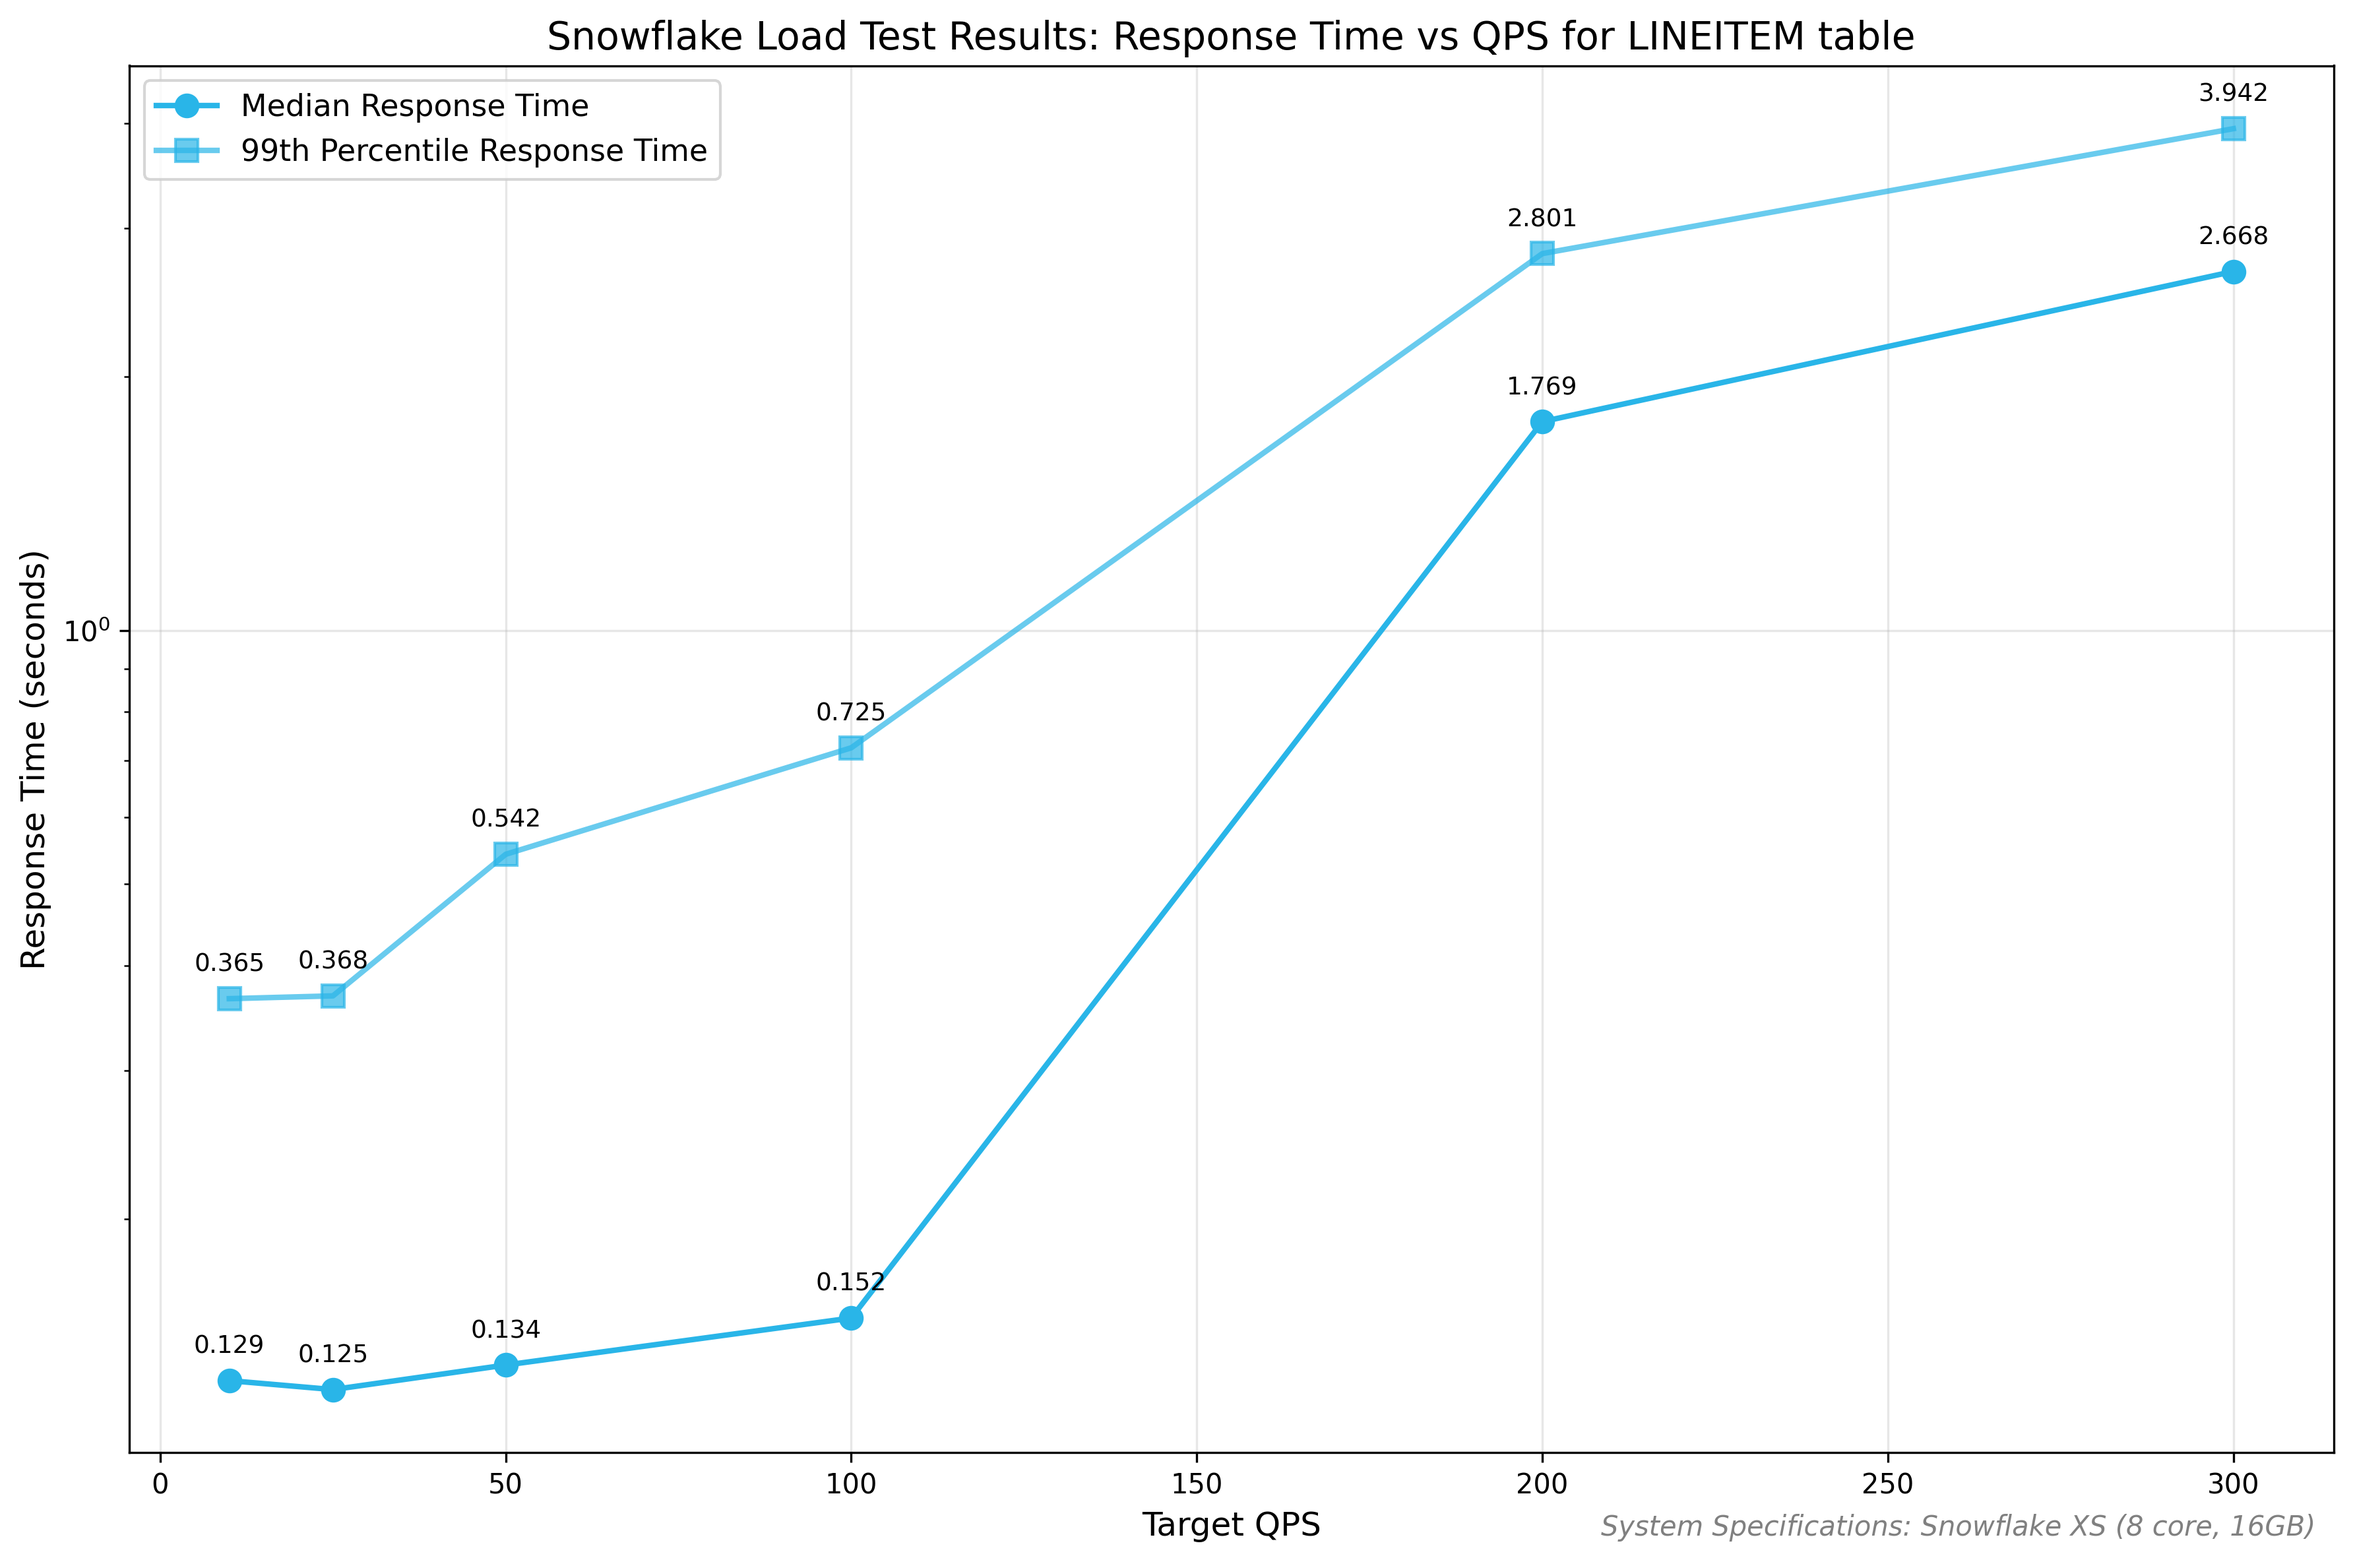
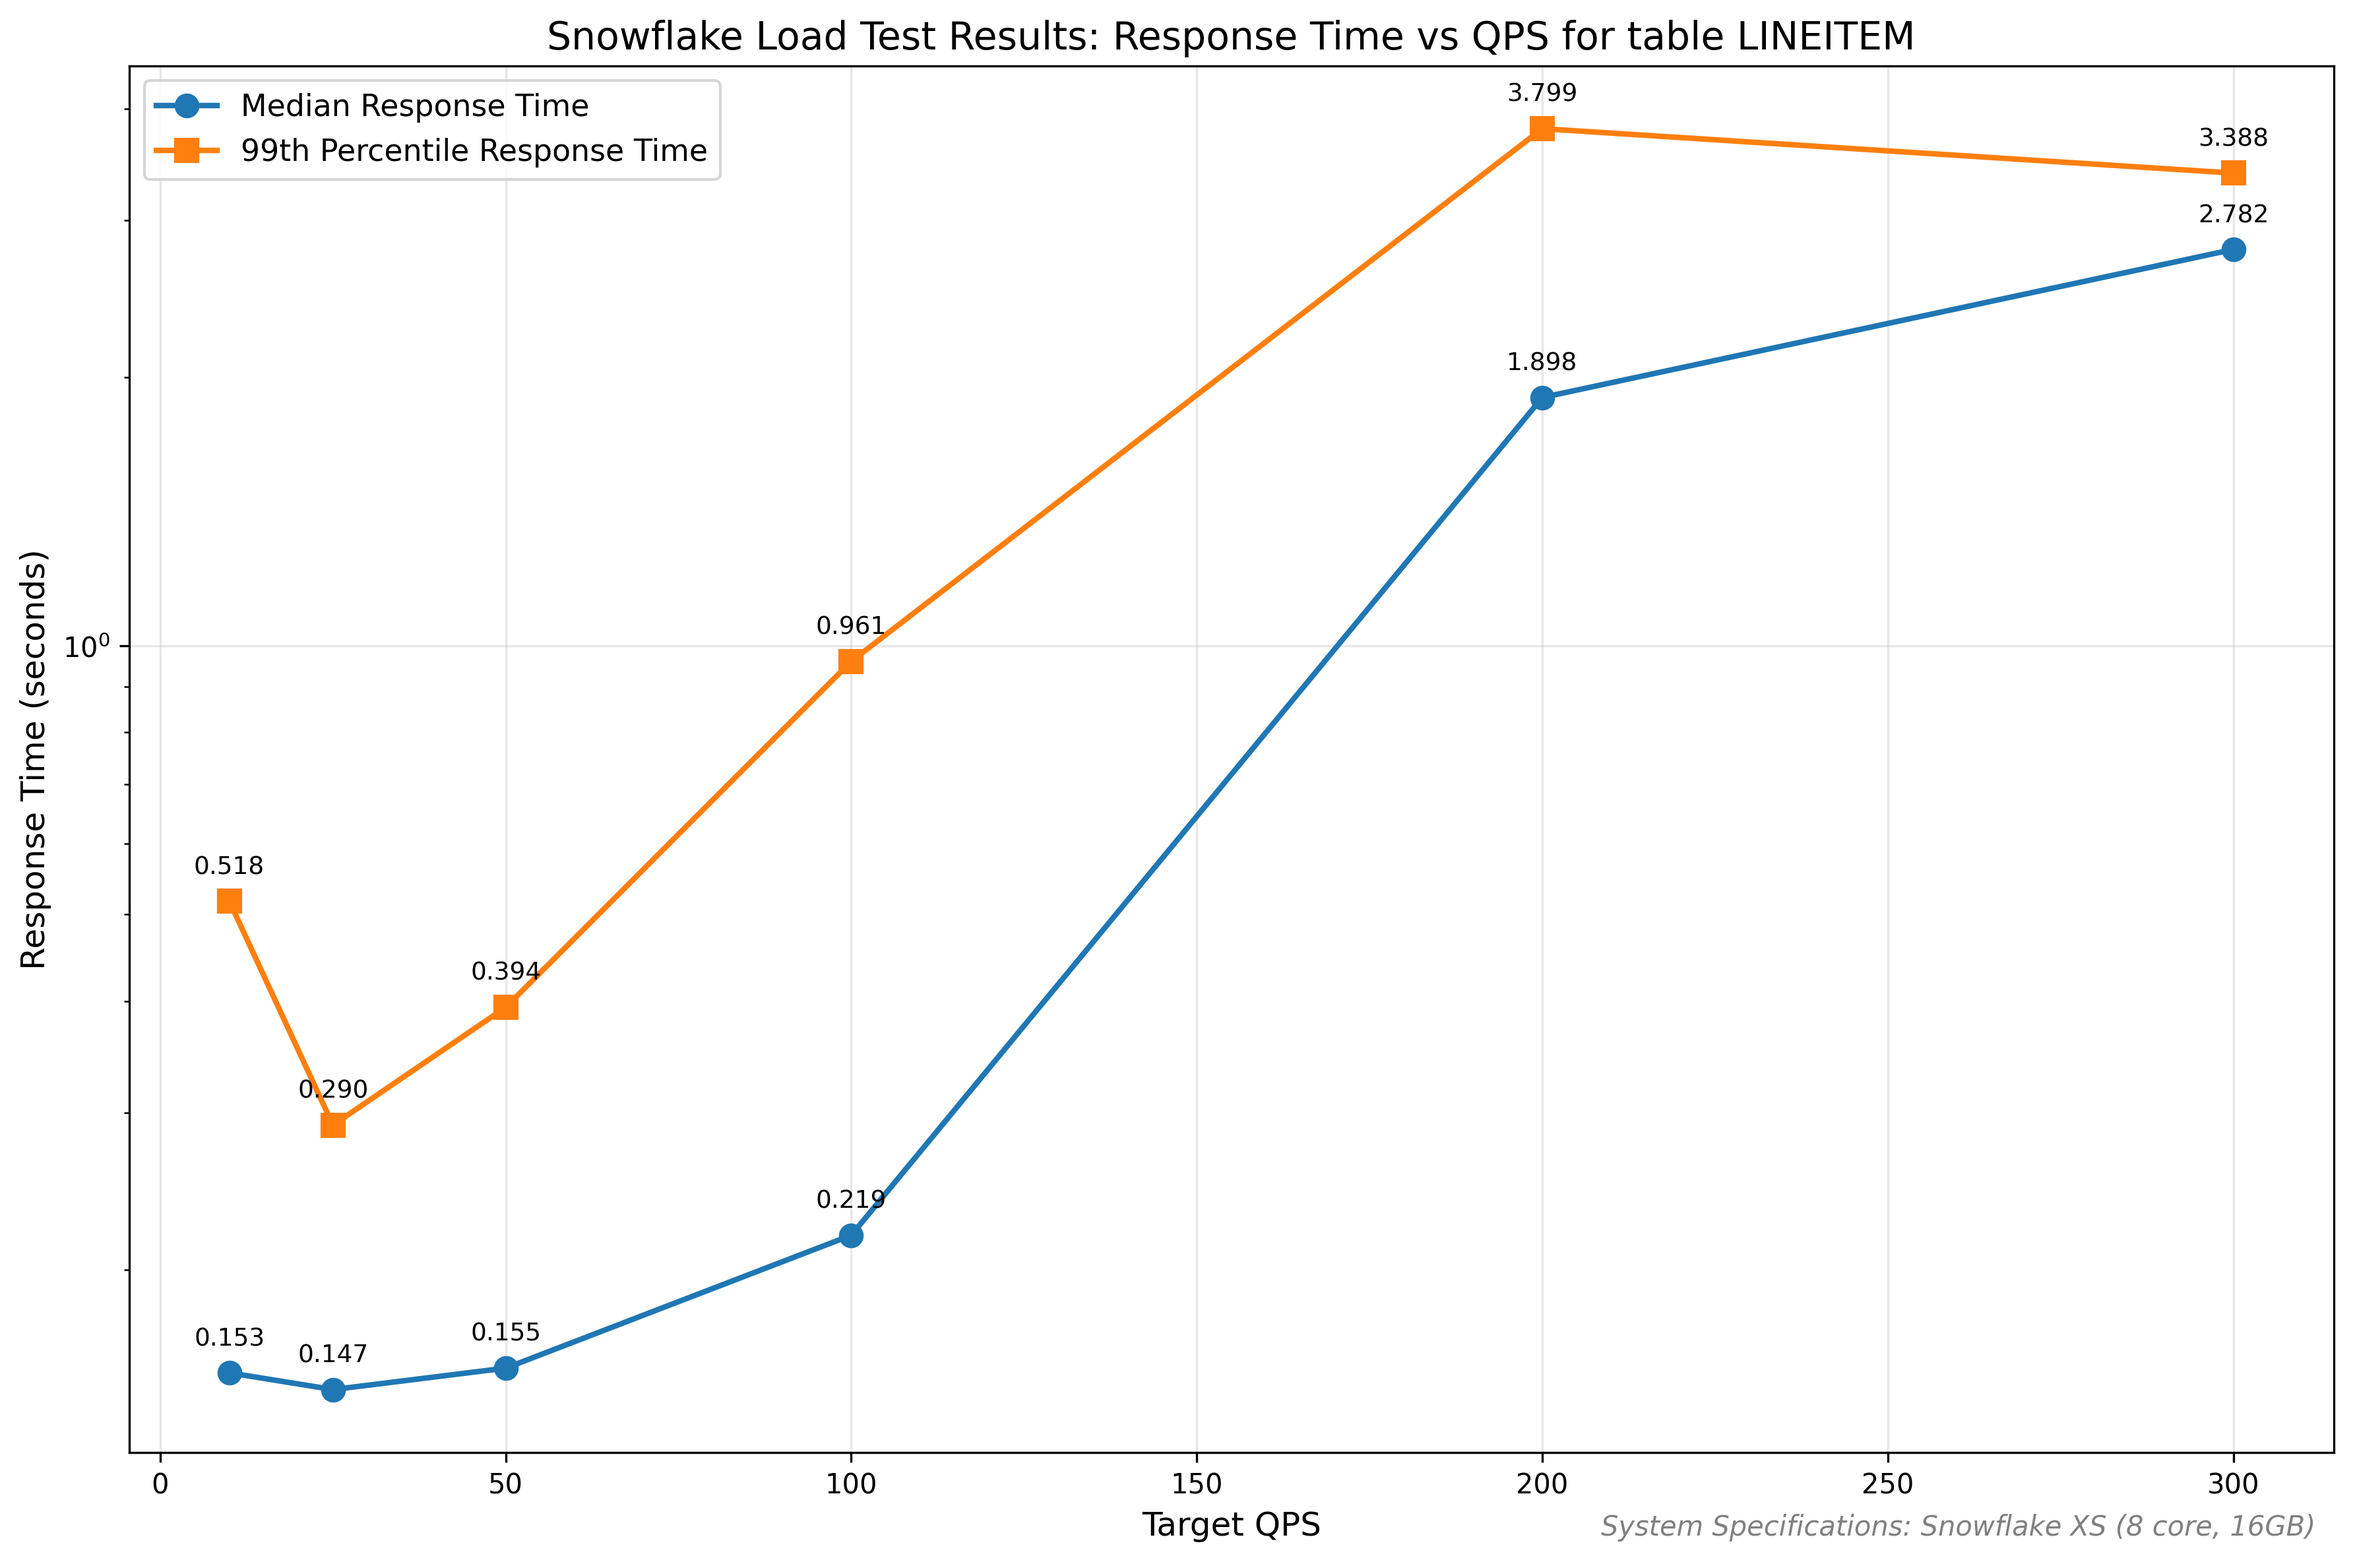
Add Streamlit database explorer app with Snowflake integration
🚀 New Streamlit Application:
- Created streamlit_app.py - A 'Hello World' Streamlit app that connects to Snowflake
- Lists all available databases with interactive UI and metrics
- Supports both local development and Snowflake deployment

✨ Key Features:
- 🔗 Automatic connection handling (local vs Snowflake environment)
- 📊 Interactive database listing with search and statistics
- 🎨 Clean, modern UI with metrics and expandable sections
- 🌐 Dual-mode support: local development + Snowflake deployment

📦 Configuration Files:
- .streamlit/config.toml - Streamlit app configuration
- environment.yml - Snowflake environment dependencies
- Updated requirements.txt with streamlit>=1.28.0

🔧 Technical Implementation:
- Smart connection detection (st.connection vs snowflake_connection)
- Proper error handling and user feedback
- Responsive design with columns and metrics
- JSON data viewer for detailed database information

✅ Tested & Verified:
- Successfully connects to Snowflake locally
- Displays database information correctly
- Ready for Snowflake-GitHub integration deployment
- Updated loadtest results from recent test run

🎯 Ready for Deployment:
- Configured for Snowflake Streamlit deployment
- All dependencies specified for both environments
- Clean separation between local and cloud execution

diff --git a/streamlit_app.py b/streamlit_app.py
@@ -1,0 +1,146 @@
+#!/usr/bin/env python3
+"""
+Snowflake Database Explorer - Streamlit App
+
+A simple Streamlit application that connects to Snowflake and displays
+all available databases. This app can run locally and also in Snowflake
+via Snowflake-GitHub integration.
+"""
+
+import streamlit as st
+import pandas as pd
+from snowflake_connection import connect_to_snowflake
+import os
+
+# Set page config
+st.set_page_config(
+    page_title="Snowflake Database Explorer",
+    page_icon="❄",
+    layout="wide"
+)
+
+def get_snowflake_connection():
+    """
+    Get Snowflake connection - handles both local and Snowflake environments
+    """
+    try:
+        # Check if running in Snowflake (Snowflake provides connection automatically)
+        if hasattr(st, 'connection') and 'snowflake' in dir(st.connection):
+            # Running in Snowflake - use built-in connection
+            return st.connection('snowflake')
+        else:
+            # Running locally - use our connection module
+            config_path = "/Users/srramaswamy/.snowsql/config"
+            return connect_to_snowflake("my_conn", config_path)
+    except Exception as e:
+        st.error(f"Connection error: {e}")
+        return None
+
+def get_databases(conn):
+    """
+    Get list of all databases from Snowflake
+    """
+    try:
+        if hasattr(conn, 'query'):
+            # Snowflake built-in connection (when running in Snowflake)
+            result = conn.query("SHOW DATABASES")
+            return result
+        else:
+            # Regular snowflake-connector connection (when running locally)
+            cursor = conn.cursor()
+            cursor.execute("SHOW DATABASES")
+            columns = [desc[0] for desc in cursor.description]
+            data = cursor.fetchall()
+            cursor.close()
+            return pd.DataFrame(data, columns=columns)
+    except Exception as e:
+        st.error(f"Error fetching databases: {e}")
+        return None
+
+def main():
+    """
+    Main Streamlit application
+    """
+    # Header
+    st.title("❄ Snowflake Database Explorer")
+    st.markdown("---")
+    
+    # Welcome message
+    st.markdown("""
+    ### Hello World! 👋
+    
+    Welcome to the Snowflake Database Explorer! This simple app demonstrates:
+    - 🔗 Connecting to Snowflake from Streamlit
+    - 📊 Querying and displaying database information
+    - 🌐 Running both locally and in Snowflake
+    """)
+    
+    # Connection status
+    with st.spinner("Connecting to Snowflake..."):
+        conn = get_snowflake_connection()
+    
+    if conn is None:
+        st.error("❌ Failed to connect to Snowflake")
+        st.info("Please check your connection configuration.")
+        return
+    
+    st.success("✅ Successfully connected to Snowflake!")
+    
+    # Fetch and display databases
+    st.markdown("### 📚 Available Databases")
+    
+    with st.spinner("Fetching database list..."):
+        databases_df = get_databases(conn)
+    
+    if databases_df is not None and not databases_df.empty:
+        st.markdown(f"**Found {len(databases_df)} databases:**")
+        
+        # Display as a nice table
+        st.dataframe(
+            databases_df,
+            use_container_width=True,
+            hide_index=True
+        )
+        
+        # Show some statistics
+        col1, col2, col3 = st.columns(3)
+        
+        with col1:
+            st.metric("Total Databases", len(databases_df))
+        
+        with col2:
+            # Count databases by type if TYPE column exists
+            if 'TYPE' in databases_df.columns:
+                standard_count = len(databases_df[databases_df['TYPE'] == 'STANDARD'])
+                st.metric("Standard Databases", standard_count)
+            else:
+                st.metric("Visible Databases", len(databases_df))
+        
+        with col3:
+            # Show if any sample databases are present
+            if 'NAME' in databases_df.columns:
+                sample_count = len(databases_df[databases_df['NAME'].str.contains('SAMPLE', case=False, na=False)])
+                st.metric("Sample Databases", sample_count)
+        
+        # Expandable section with raw data
+        with st.expander("🔍 View Raw Database Information"):
+            st.json(databases_df.to_dict('records'))
+    
+    else:
+        st.warning("⚠ No databases found or error occurred while fetching data.")
+    
+    # Footer
+    st.markdown("---")
+    st.markdown("""
+    <div style='text-align: center; color: #666;'>
+        <p>Built with ❤ using Streamlit and Snowflake</p>
+        <p>Ready for local development and Snowflake deployment! 🚀</p>
+    </div>
+    """, unsafe_allow_html=True)
+    
+    # Close connection if it's a regular connection (not Snowflake built-in)
+    if conn and not hasattr(conn, 'query'):
+        conn.close()
+
+if __name__ == "__main__":
+    main() 
